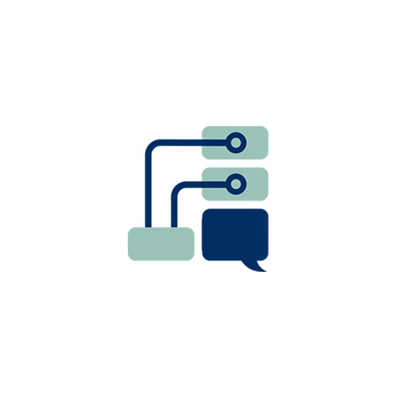
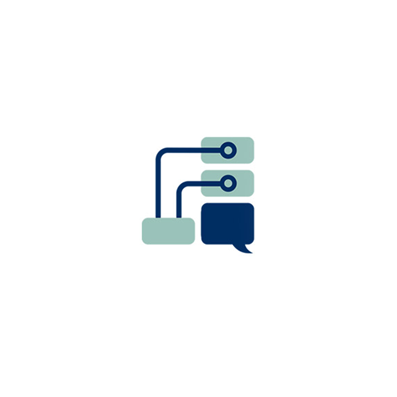
Update porfolio images

Changed region(s): [[0.3023, 0.3023, 0.6952, 0.6952]]

diff --git a/index.html b/index.html
@@ -226,11 +226,11 @@
           <div class="portfolio-item wow fadeInUp" data-wow-delay="600ms">
             <div class="hover-bg"> <a href="#brandingModal8" class="portfolio-link" data-toggle="modal">
               <div class="hover-text">
-                <h4>Sala logo</h4>
+                <h4>Ecoservice rebranding</h4>
                 Branding
                 <div class="clearfix"></div>
                 <i class="fa fa-plus"></i> </div>
-              <img src="img/branding/8_sala_preview.png" class="img-responsive" alt="Sala preview logo"> </a> </div>
+              <img src="img/branding/8_ecoservice_preview.png" class="img-responsive" alt="Ecoservice preview logo"> </a> </div>
           </div>
         </div>
 
@@ -286,11 +286,11 @@
           <div class="portfolio-item wow fadeInUp" data-wow-delay="1400ms">
             <div class="hover-bg"> <a href="#illustrationModal5" class="portfolio-link" data-toggle="modal">
               <div class="hover-text">
-                <h4>"Vipcommunications" is hiring</h4>
+                <h4>Book about Lithuania</h4>
                 Illustration
                 <div class="clearfix"></div>
                 <i class="fa fa-plus"></i> </div>
-              <img src="img/illustration/5_vip_skelbimas_preview.png" class="img-responsive" alt="Vip communications preview"> </a> </div>
+              <img src="img/illustration/5_ltknyga_preview.png" class="img-responsive" alt="LT knyga preview"> </a> </div>
           </div>
         </div>
 
@@ -382,11 +382,11 @@
           <div class="portfolio-item wow fadeInUp" data-wow-delay="1600ms">
             <div class="hover-bg"> <a href="#printWebModal5" class="portfolio-link" data-toggle="modal">
               <div class="hover-text">
-                <h4>Book about Lithuania</h4>
+                <h4>Selga autumn gif</h4>
                 Print / Web
                 <div class="clearfix"></div>
                 <i class="fa fa-plus"></i> </div>
-              <img src="img/print-web/5_knyga_preview.png" class="img-responsive" alt="Book preview"> </a> </div>
+              <img src="img/print-web/5_selga_preview.png" class="img-responsive" alt="Selga preview"> </a> </div>
           </div>
         </div>
 
@@ -423,6 +423,18 @@
                 <div class="clearfix"></div>
                 <i class="fa fa-plus"></i> </div>
               <img src="img/print-web/8_ozas_preview.png" class="img-responsive" alt="Ozas preview"> </a> </div>
+          </div>
+        </div>
+
+        <div class="col-xs-12 col-sm-6 col-md-3 col-lg-3 print-web">
+          <div class="portfolio-item wow fadeInUp" data-wow-delay="1600ms">
+            <div class="hover-bg"> <a href="#printWebModal9" class="portfolio-link" data-toggle="modal">
+              <div class="hover-text">
+                <h4>Deutsches Juristenorchester</h4>
+                Print / Web
+                <div class="clearfix"></div>
+                <i class="fa fa-plus"></i> </div>
+              <img src="img/print-web/9_ozas_concert_preview.png" class="img-responsive" alt="Concert preview"> </a> </div>
           </div>
         </div>
 
@@ -467,21 +479,25 @@
       <div class="col-md-12 wow fadeInRight">
         <div class="about-wrapper">
           <h4>The Philosophy:</h4>
-          <p>Currently on a mission: searching for a greatest balance in my life.
+          <p>
+            Currently on a mission: searching for a greatest balance in my life.
             One part of this project: to love what you do for a living.
             I do (most of the time). I feed off of high energy collaboration and am thirsty for knowledge.
           </p>
-          <p>Graduated with a Bachelor's degree in Graphic Design in 2011. All through my college years and after,
-            I've been working on logos, layouts, print-webs, playground and pretty much everything that involves creating
-            a visual representation of a certain idea. I am also into illustration (period), both: digital and traditional.
+          <p>
+            Graduated with a Bachelor's degree in Graphic Design in 2011. All through my college years and after,
+            I've been working on logos, layouts, print-web design and pretty much everything that involves creating
+            a visual representation of a certain idea. I am also into illustration, both: digital and traditional.
             Without aesthetics - there is also functionality I am looking for in a design.
           </p>
-          <p>Currently creating in London. Though I do like to travel. And to make plans. And to eat the darkest chocolate
+          <p>
+            Currently creating in London. Though I do like to travel. And to make plans. And to eat the darkest chocolate
             while planning. And to recharge my batteries in the nature.
           </p>
           <div class="small-space"></div>
           <h4>The Process:</h4>
-          <p>I treat every client the same, with a down-to-earth attitude and an enthusiasm for what I do. I begin a project
+          <p>
+            I treat every client the same, with a down-to-earth attitude and an enthusiasm for what I do. I begin a project
             by understanding my client’s requirements. The brand’s personality, tone of voice, target audience and competitors
             are all evaluated. After a personalized planning and strategy - creativity happens. ~***~
           </p>
@@ -506,7 +522,7 @@
         <p><a href="mailto:s.marciuskaite@gmail.com">s.marciuskaite@gmail.com</a></p>
       </div>
       <div class="col-md-4"> <i class="fa fa-phone fa-2x"></i>
-        <p><a href="tel:+37060341122">+370 603 41122</a></p>
+        <p><a href="tel:+447541731595">+44 (0) 7541 731595</a></p>
       </div>
       <div class="clearfix"></div>
     </div>
@@ -693,9 +709,9 @@
         <div class="col-lg-12">
           <div class="modal-body">
             <!-- Project Details Go Here -->
-            <h2>Sala logo</h2>
+            <h2>Ecoservice rebranding</h2>
             <p class="item-intro"></p>
-            <img class="img-responsive img-centered" lazy-src="img/branding/8_sala_detailed.png" alt="Sala detailed logo">
+            <img class="img-responsive img-centered" lazy-src="img/branding/8_ecoservice_detailed.png" alt="Ecoservice detailed logo">
             <button type="button" class="btn btn-primary" data-dismiss="modal"><i class="fa fa-times"></i> Close Project</button>
           </div>
         </div>
@@ -810,9 +826,9 @@
         <div class="col-lg-12">
           <div class="modal-body">
             <!-- Project Details Go Here -->
-            <h2>"Vipcommunications" is hiring</h2>
+            <h2>Book about Lithuania</h2>
             <p class="item-intro"></p>
-            <img class="img-responsive img-centered" lazy-src="img/illustration/5_vip_skelbimas_detailed.png" alt="Vip communications detailed">
+            <img class="img-responsive img-centered" lazy-src="img/illustration/5_ltknyga_detailed.png" alt="LT knyga detailed">
             <button type="button" class="btn btn-primary" data-dismiss="modal"><i class="fa fa-times"></i> Close Project</button>
           </div>
         </div>
@@ -996,9 +1012,9 @@
         <div class="col-lg-12">
           <div class="modal-body">
             <!-- Project Details Go Here -->
-            <h2>Book about Lithuania</h2>
+            <h2>Selga autumn gif</h2>
             <p class="item-intro"></p>
-            <img class="img-responsive img-centered" lazy-src="img/print-web/5_knyga_detailed.png" alt="Book detailed">
+            <img style="width: 400px" class="img-responsive img-centered" lazy-src="img/print-web/5_selga_detailed.gif" alt="Selga detailed">
             <button type="button" class="btn btn-primary" data-dismiss="modal"><i class="fa fa-times"></i> Close Project</button>
           </div>
         </div>
@@ -1075,6 +1091,30 @@
     </div>
   </div>
 </div>
+
+<div class="portfolio-modal modal fade" id="printWebModal9" tabindex="-1" role="dialog" aria-hidden="true">
+  <div class="modal-content">
+    <div class="close-modal" data-dismiss="modal">
+      <div class="lr">
+        <div class="rl"> </div>
+      </div>
+    </div>
+    <div class="container">
+      <div class="row">
+        <div class="col-lg-12">
+          <div class="modal-body">
+            <!-- Project Details Go Here -->
+            <h2>Deutsches Juristenorchester</h2>
+            <p class="item-intro"></p>
+            <img class="img-responsive img-centered" lazy-src="img/print-web/9_ozas_concert_detailed.png" alt="Concert detailed">
+            <button type="button" class="btn btn-primary" data-dismiss="modal"><i class="fa fa-times"></i> Close Project</button>
+          </div>
+        </div>
+      </div>
+    </div>
+  </div>
+</div>
+
 
 
 <!-- Playground Modals -->
